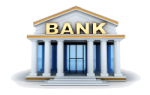
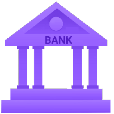
DEPOSIT UI

diff --git a/src/app/client/pages/deposit/deposit.component.html b/src/app/client/pages/deposit/deposit.component.html
@@ -1,151 +1,159 @@
 <div class="pg-container">
 
+  <div class="accordion" id="accordionExample">
+    <div class="accordion-item">
+      <h2 class="accordion-header" id="headingOne">
+        <button class="pg-header bankButton" data-bs-toggle="collapse" data-bs-target="#collapseOne" aria-expanded="false"
+                aria-controls="collapseOne">
+          <img style="width: 55px;" src="assets/banks/bank.png">
+          BANK
+        </button>
 
-<div class="accordion" id="accordionExample">
-  <div class="accordion-item">
-    <h2 class="accordion-header" id="headingOne">
-      <button class="pg-header" data-bs-toggle="collapse" data-bs-target="#collapseOne" aria-expanded="false" aria-controls="collapseOne">
-        <img src="assets/banks/bank.png">
-      </button>
-
-    </h2>
-    <div id="collapseOne" class="accordion-collapse collapse " aria-labelledby="headingOne" data-bs-parent="#accordionExample">
-      <div class="accordion-body text-center">
-        <div  class="bank-detail">
-          <label >Make your payment on the details below:</label>
-          <table  style="margin: 0 auto;">
-            <tr >
-              <td  class="detail-name"> Paytm Name </td>
-              <td  class="detail-data"> : Rajesh Kumar Prajap </td>
-            </tr>
-            <tr >
-              <td  class="detail-name"> Paytm Number </td>
-              <td  class="detail-data"> : 8239596001 </td>
-            </tr>
-          </table>
-          <div >
-            <div  class="d-flex justify-content-center my-3">
-              <div  class="btn">
-                <label  for="customFile1" class="form-label text-white image-upload-extion">
-                  <i class="fa-solid fa-circle-plus"></i>
-                  <p >Click here to upload payment screenshot.</p>
-                </label>
-                <input  type="file" id="customFile1" class="form-control d-none">
+      </h2>
+      <div id="collapseOne" class="accordion-collapse collapse " aria-labelledby="headingOne"
+           data-bs-parent="#accordionExample">
+        <div class="accordion-body text-center">
+          <div class="bank-detail">
+            <label>Make your payment on the details below:</label>
+            <table style="margin: 0 auto;">
+              <tr>
+                <td class="detail-name"> Paytm Name</td>
+                <td class="detail-data"> : Rajesh Kumar Prajap</td>
+              </tr>
+              <tr>
+                <td class="detail-name"> Paytm Number</td>
+                <td class="detail-data"> : 8239596001</td>
+              </tr>
+            </table>
+            <div>
+              <div class="d-flex justify-content-center my-3">
+                <div class="btn">
+                  <label for="customFile1" class="form-label text-white image-upload-extion">
+                    <i class="fa-solid fa-circle-plus"></i>
+                    <p>Click here to upload payment screenshot.</p>
+                  </label>
+                  <input type="file" id="customFile1" class="form-control d-none">
+                </div>
               </div>
+              <button type="button" class="btn deposit-submit">Submit</button>
             </div>
-            <button  type="button" class="btn deposit-submit">Submit</button>
           </div>
         </div>
       </div>
     </div>
-  </div>
-  <div class="accordion-item">
-    <h2 class="accordion-header" id="headingTwo">
-      <button class="pg-header" type="button" data-bs-toggle="collapse" data-bs-target="#collapseTwo" aria-expanded="false" aria-controls="collapseTwo">
-        <img src="assets/banks/paytm.png">
-      </button>
-    </h2>
-    <div id="collapseTwo" class="accordion-collapse collapse" aria-labelledby="headingTwo" data-bs-parent="#accordionExample">
-      <div class="accordion-body text-center">
-        <div  class="bank-detail">
-          <label >Make your payment on the details below:</label>
-          <table  style="margin: 0 auto;">
-            <tr >
-              <td  class="detail-name"> Paytm Name </td>
-              <td  class="detail-data"> : Rajesh Kumar Prajap </td>
-            </tr>
-            <tr >
-              <td  class="detail-name"> Paytm Number </td>
-              <td  class="detail-data"> : 8239596001 </td>
-            </tr>
-          </table>
-          <div >
-            <div  class="d-flex justify-content-center my-3">
-              <div  class="btn">
-                <label  for="customFile2" class="form-label text-white image-upload-extion">
-                  <i class="fa-solid fa-circle-plus"></i>
-                  <p >Click here to upload payment screenshot.</p>
-                </label>
-                <input  type="file" id="customFile2" class="form-control d-none">
+    <div class="accordion-item">
+      <h2 class="accordion-header" id="headingTwo">
+        <button class="pg-header" type="button" data-bs-toggle="collapse" data-bs-target="#collapseTwo"
+                aria-expanded="false" aria-controls="collapseTwo">
+          <img src="assets/banks/paytm.png">
+        </button>
+      </h2>
+      <div id="collapseTwo" class="accordion-collapse collapse" aria-labelledby="headingTwo"
+           data-bs-parent="#accordionExample">
+        <div class="accordion-body text-center">
+          <div class="bank-detail">
+            <label>Make your payment on the details below:</label>
+            <table style="margin: 0 auto;">
+              <tr>
+                <td class="detail-name"> Paytm Name</td>
+                <td class="detail-data"> : Rajesh Kumar Prajap</td>
+              </tr>
+              <tr>
+                <td class="detail-name"> Paytm Number</td>
+                <td class="detail-data"> : 8239596001</td>
+              </tr>
+            </table>
+            <div>
+              <div class="d-flex justify-content-center my-3">
+                <div class="btn">
+                  <label for="customFile2" class="form-label text-white image-upload-extion">
+                    <i class="fa-solid fa-circle-plus"></i>
+                    <p>Click here to upload payment screenshot.</p>
+                  </label>
+                  <input type="file" id="customFile2" class="form-control d-none">
+                </div>
               </div>
+              <button type="button" class="btn deposit-submit">Submit</button>
             </div>
-            <button  type="button" class="btn deposit-submit">Submit</button>
           </div>
         </div>
       </div>
     </div>
-  </div>
-  <div class="accordion-item">
-    <h2 class="accordion-header" id="headingFour">
-      <button class="pg-header" type="button" data-bs-toggle="collapse" data-bs-target="#collapseFour" aria-expanded="false" aria-controls="collapseFour">
-        <img src="assets/banks/googlepay.png">
-      </button>
-    </h2>
-    <div id="collapseFour" class="accordion-collapse collapse" aria-labelledby="headingFour   " data-bs-parent="#accordionExample">
-      <div class="accordion-body text-center">
-        <div  class="bank-detail">
-        <label >Make your payment on the details below:</label>
-        <table  style="margin: 0 auto;">
-          <tr >
-            <td  class="detail-name"> Paytm Name </td>
-            <td  class="detail-data"> : Rajesh Kumar Prajap </td>
-          </tr>
-          <tr >
-            <td  class="detail-name"> Paytm Number </td>
-            <td  class="detail-data"> : 8239596001 </td>
-          </tr>
-        </table>
-        <div >
-          <div  class="d-flex justify-content-center my-3">
-            <div  class="btn">
-              <label  for="customFile3" class="form-label text-white image-upload-extion">
-                <i class="fa-solid fa-circle-plus"></i>
-                <p >Click here to upload payment screenshot.</p>
-              </label>
-              <input  type="file" id="customFile3" class="form-control d-none">
-            </div>
-          </div>
-          <button  type="button" class="btn deposit-submit">Submit</button>
-        </div>
-      </div>
-      </div>
-    </div>
-  </div>
-  <div class="accordion-item">
-    <h2 class="accordion-header" id="headingThree">
-      <button class="pg-header" type="button" data-bs-toggle="collapse" data-bs-target="#collapseThree" aria-expanded="false" aria-controls="collapseThree">
-        <img src="assets/banks/phonepay.png">
-      </button>
-    </h2>
-    <div id="collapseThree" class="accordion-collapse collapse" aria-labelledby="headingThree" data-bs-parent="#accordionExample">
-      <div class="accordion-body text-center">
-        <div  class="bank-detail">
-          <label >Make your payment on the details below:</label>
-          <table  style="margin: 0 auto;">
-            <tr >
-              <td  class="detail-name"> Paytm Name </td>
-              <td  class="detail-data"> : Rajesh Kumar Prajap </td>
-            </tr>
-            <tr >
-              <td  class="detail-name"> Paytm Number </td>
-              <td  class="detail-data"> : 8239596001 </td>
-            </tr>
-          </table>
-          <div >
-            <div  class="d-flex justify-content-center my-3">
-              <div  class="btn">
-                <label  for="customFile3" class="form-label text-white image-upload-extion">
-                  <i class="fa-solid fa-circle-plus"></i>
-                  <p >Click here to upload payment screenshot.</p>
-                </label>
-                <input  type="file" id="customFile3" class="form-control d-none">
+    <div class="accordion-item">
+      <h2 class="accordion-header" id="headingFour">
+        <button class="pg-header" type="button" data-bs-toggle="collapse" data-bs-target="#collapseFour"
+                aria-expanded="false" aria-controls="collapseFour">
+          <img src="assets/banks/googlepay.png">
+        </button>
+      </h2>
+      <div id="collapseFour" class="accordion-collapse collapse" aria-labelledby="headingFour   "
+           data-bs-parent="#accordionExample">
+        <div class="accordion-body text-center">
+          <div class="bank-detail">
+            <label>Make your payment on the details below:</label>
+            <table style="margin: 0 auto;">
+              <tr>
+                <td class="detail-name"> Paytm Name</td>
+                <td class="detail-data"> : Rajesh Kumar Prajap</td>
+              </tr>
+              <tr>
+                <td class="detail-name"> Paytm Number</td>
+                <td class="detail-data"> : 8239596001</td>
+              </tr>
+            </table>
+            <div>
+              <div class="d-flex justify-content-center my-3">
+                <div class="btn">
+                  <label for="customFile3" class="form-label text-white image-upload-extion">
+                    <i class="fa-solid fa-circle-plus"></i>
+                    <p>Click here to upload payment screenshot.</p>
+                  </label>
+                  <input type="file" id="customFile3" class="form-control d-none">
+                </div>
               </div>
+              <button type="button" class="btn deposit-submit">Submit</button>
             </div>
-            <button  type="button" class="btn deposit-submit">Submit</button>
+          </div>
+        </div>
+      </div>
+    </div>
+    <div class="accordion-item">
+      <h2 class="accordion-header" id="headingThree">
+        <button class="pg-header" type="button" data-bs-toggle="collapse" data-bs-target="#collapseThree"
+                aria-expanded="false" aria-controls="collapseThree">
+          <img src="assets/banks/phonepay.png">
+        </button>
+      </h2>
+      <div id="collapseThree" class="accordion-collapse collapse" aria-labelledby="headingThree"
+           data-bs-parent="#accordionExample">
+        <div class="accordion-body text-center">
+          <div class="bank-detail">
+            <label>Make your payment on the details below:</label>
+            <table style="margin: 0 auto;">
+              <tr>
+                <td class="detail-name"> Paytm Name</td>
+                <td class="detail-data"> : Rajesh Kumar Prajap</td>
+              </tr>
+              <tr>
+                <td class="detail-name"> Paytm Number</td>
+                <td class="detail-data"> : 8239596001</td>
+              </tr>
+            </table>
+            <div>
+              <div class="d-flex justify-content-center my-3">
+                <div class="btn">
+                  <label for="customFile3" class="form-label text-white image-upload-extion">
+                    <i class="fa-solid fa-circle-plus"></i>
+                    <p>Click here to upload payment screenshot.</p>
+                  </label>
+                  <input type="file" id="customFile3" class="form-control d-none">
+                </div>
+              </div>
+              <button type="button" class="btn deposit-submit">Submit</button>
+            </div>
           </div>
         </div>
       </div>
     </div>
   </div>
-</div>
 </div>

diff --git a/src/app/client/pages/deposit/deposit.component.css b/src/app/client/pages/deposit/deposit.component.css
@@ -1,21 +1,37 @@
 .pg-header{
-  background: var(--deposit-card-bg);
-  width: 100%;
+  background: var(--deposit-card-bg-grad);
+  width: 223px;
+  height: 140px;
+  margin: 20px;
   border-radius: 10px;
   padding: 1vw;
   border: 0;
   margin-bottom: 5px;
 }
+ .bankButton{
+  display: inline-flex;
+  align-content: center;
+  flex-direction: row;
+  align-items: center;
+}
 .pg-header img{
-  width: 40vw;
+  width: 10vw;
 }
 .pg-container{
   width: 90%;
   margin-left: auto;
   margin-right: auto;
+  padding: 100px;
+}
+.accordion {
+  display: flex;
+  flex-direction: row;
+  align-content: center;
+  justify-content: center;
 }
 .accordion-item{
-  background: var(--header-color);
+  background:transparent;
+  border: 0px solid rgba(0,0,0,.125);
 }
 .accordion-body{
   background: var(--deposit-card-bg);
@@ -63,4 +79,26 @@
   .detail-data, .detail-name {
     font-size: 12px ;
   }
+}
+
+
+@media screen and (max-width: 900px){
+  .accordion {
+    flex-direction: column;
+  }
+  .pg-header{
+    width: 331px;
+    height: 116px;
+  }
+  .pg-header img {
+    width: 22vw;
+  }
+  .bankButton{
+    display: block;
+  }
+  .pg-container{
+    padding: 0%;
+    width: fit-content;
+  }
+
 }

diff --git a/src/app/app.module.ts b/src/app/app.module.ts
@@ -7,7 +7,6 @@ import {NgxIntlTelInputModule} from "ngx-intl-tel-input";
 import {HttpClientModule, HTTP_INTERCEPTORS} from "@angular/common/http";
 import { JwtinterceptorService } from './services/JwtInterceptor.service';
 import { AppService } from './services/app.service';
-import {HttpClientModule} from "@angular/common/http";
 import { DataTablesModule } from "angular-datatables";
 
 @NgModule({

diff --git a/src/styles.css b/src/styles.css
@@ -20,6 +20,7 @@
   --theme-bg: rgba(114, 50, 165, 0.38823529411764707);
   --market-bg: #5f2686;
   --deposit-card-bg: #cbbed6;
+  --deposit-card-bg-grad: radial-gradient(circle, rgba(255,255,255,1) 0%, rgba(240,239,222,1) 35%, rgba(221,213,81,1) 100%);
 }
 
 .text-dark {
